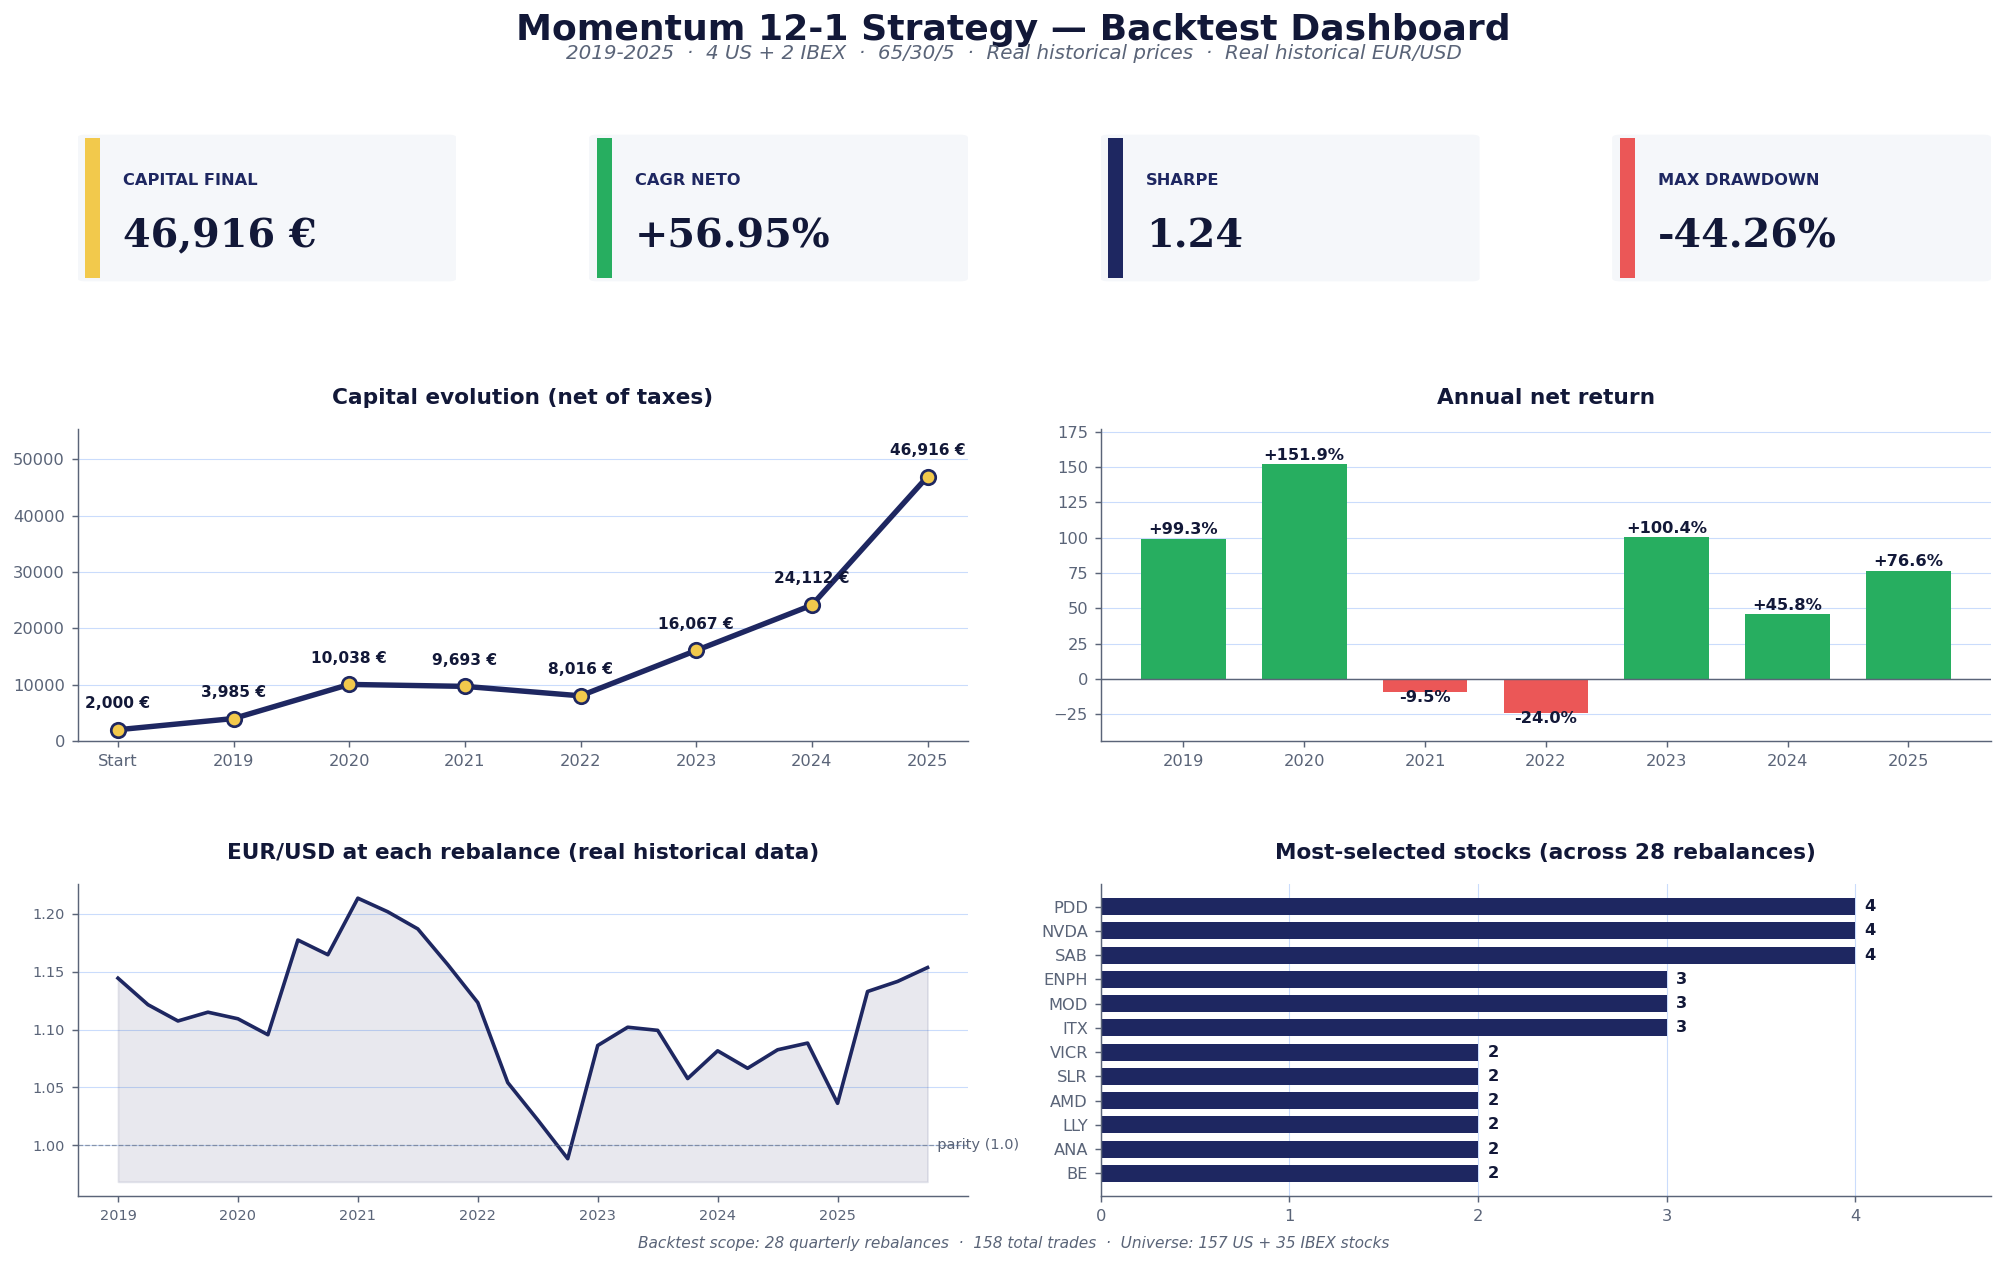
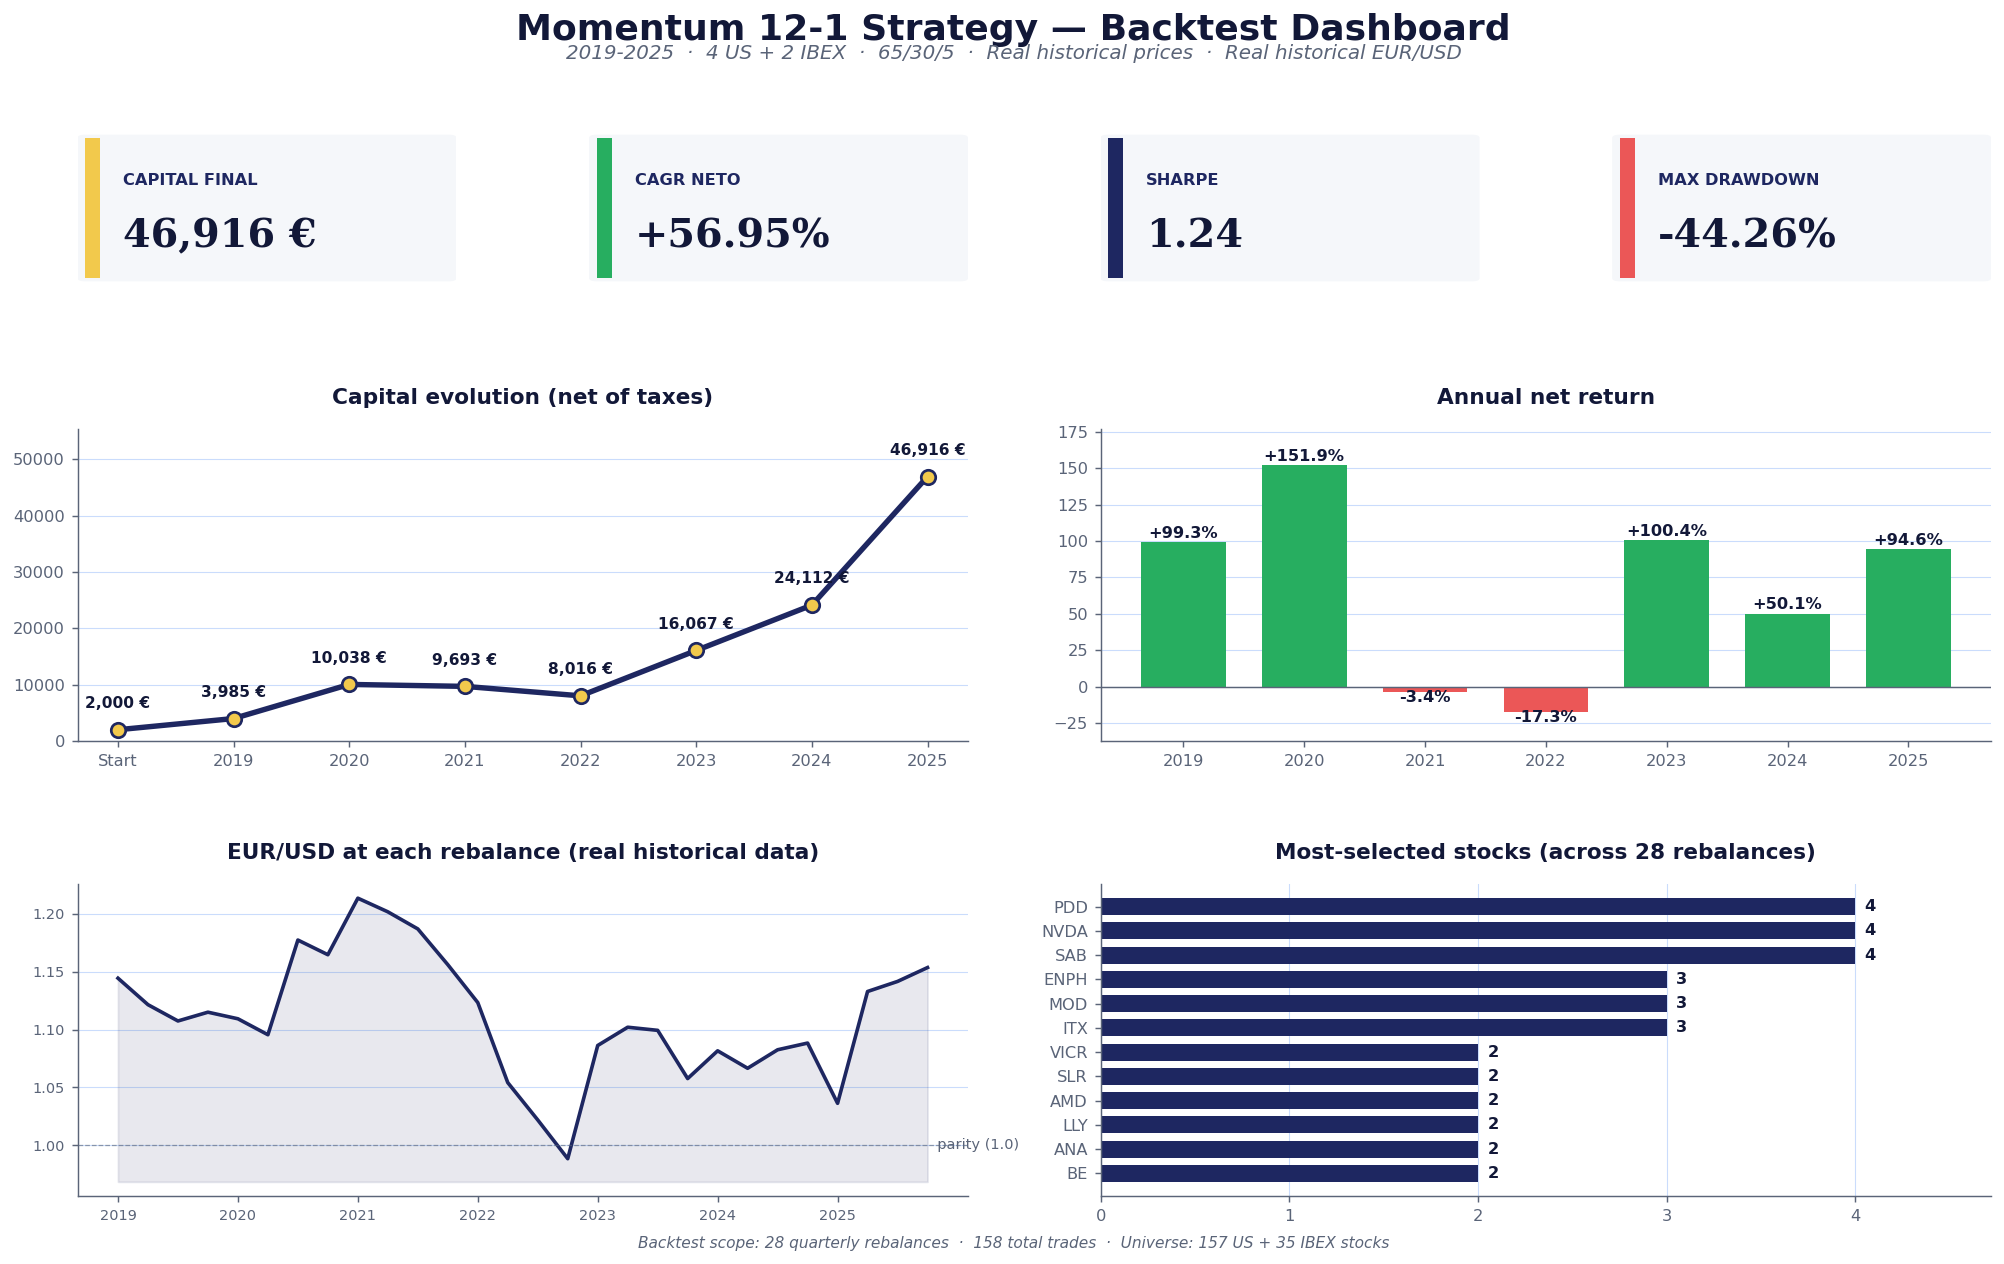
Bugfix: Yearly tax payments not deducted from start-of-next-year capital in backtest. #12

diff --git a/src/backtest.py b/src/backtest.py
@@ -477,7 +477,7 @@ def main():
             "tax": tax,
             "realized_gain": realized,
         })
-        df_log.loc[df_log.index >= f"{year+1}-01-01", "value_eur"] -= (
+        df_log.loc[df_log.index >= f"{year}-12-31", "value_eur"] -= (
             tax if year < final_year else 0
         )
 

diff --git a/backtests/backtest-results.md b/backtests/backtest-results.md
@@ -27,7 +27,7 @@ Reproducible run of `src/backtest.py` against **REAL historical price data** fro
 | Final capital | **46.916 €** |
 | Total return | [phone redacted]% |
 | **CAGR (net of taxes)** | **+56.95%** |
-| Annualized volatility | 44.41% |
+| Annualized volatility | 44.61% |
 | **Sharpe ratio** | **1.24** |
 | **Max drawdown** | **-44.26%** |
 | Total taxes | 10.390 € |
@@ -44,11 +44,11 @@ Reproducible run of `src/backtest.py` against **REAL historical price data** fro
 |------|--------------:|------------------:|-----------:|---------:|--------------:|
 | 2019 | 2.000 € | 3.985 € | **+99.27%** | 0 € | -38 € |
 | 2020 | 3.985 € | 10.038 € | **+151.88%** | 677 € | 3.564 € |
-| 2021 | 10.715 € | 9.693 € | **-9.54%** | 858 € | 4.514 € |
-| 2022 | 10.550 € | 8.016 € | **-24.02%** | 0 € | -784 € |
+| 2021 | 10.038 € | 9.693 € | **-3.44%** | 858 € | 4.514 € |
+| 2022 | 9.693 € | 8.016 € | **-17.30%** | 0 € | -784 € |
 | 2023 | 8.016 € | 16.067 € | **+100.44%** | 476 € | 2.503 € |
-| 2024 | 16.543 € | 24.112 € | **+45.75%** | 2.454 € | 12.259 € |
-| 2025 | 26.566 € | 46.916 € | **+76.60%** | 2.963 € | 14.679 € |
+| 2024 | 16.067 € | 24.112 € | **+50.07%** | 2.454 € | 12.259 € |
+| 2025 | 24.112 € | 46.916 € | **+94.57%** | 2.963 € | 14.679 € |
 
 ## Most-selected stocks
 
@@ -138,7 +138,7 @@ One row per executed buy/sell. Sells show realized return at exit; buys leave th
 | Q4 2020 | SELL | PDD | US | 16.1947 | 89.98 USD | 1.1647 | 1.251 € | +78.40% |
 | Q4 2020 | SELL | VICR | US | 14.2361 | 78.00 USD | 1.1647 | 953 € | -3.22% |
 
-### 2021 (10 buys, 10 sells, 35.339 € total volume — net annual return **-9.54%**)
+### 2021 (10 buys, 10 sells, 35.339 € total volume — net annual return **-3.44%**)
 
 | Quarter | Action | Ticker | Market | Shares | Price | EUR/USD | Amount (€) | Return % |
 |---------|--------|--------|--------|-------:|------:|--------:|-----------:|---------:|
@@ -163,7 +163,7 @@ One row per executed buy/sell. Sells show realized return at exit; buys leave th
 | Q4 2021 | SELL | MOD | US | 122.4480 | 11.00 USD | 1.1561 | 1.165 € | -32.49% |
 | Q4 2021 | SELL | MTS | IBEX | 60.0918 | 29.34 EUR |  | 1.763 € | +21.11% |
 
-### 2022 (16 buys, 15 sells, 46.517 € total volume — net annual return **-24.02%**)
+### 2022 (16 buys, 15 sells, 46.517 € total volume — net annual return **-17.30%**)
 
 | Quarter | Action | Ticker | Market | Shares | Price | EUR/USD | Amount (€) | Return % |
 |---------|--------|--------|--------|-------:|------:|--------:|-----------:|---------:|
@@ -236,7 +236,7 @@ One row per executed buy/sell. Sells show realized return at exit; buys leave th
 | Q4 2023 | SELL | MOD | US | 73.7240 | 39.50 USD | 1.0576 | 2.754 € | +69.81% |
 | Q4 2023 | SELL | SAB | IBEX | 1416.7496 | 1.17 EUR |  | 1.659 € | +23.94% |
 
-### 2024 (11 buys, 11 sells, 81.349 € total volume — net annual return **+45.75%**)
+### 2024 (11 buys, 11 sells, 81.349 € total volume — net annual return **+50.07%**)
 
 | Quarter | Action | Ticker | Market | Shares | Price | EUR/USD | Amount (€) | Return % |
 |---------|--------|--------|--------|-------:|------:|--------:|-----------:|---------:|
@@ -263,7 +263,7 @@ One row per executed buy/sell. Sells show realized return at exit; buys leave th
 | Q4 2024 | SELL | ROVI | IBEX | 45.7885 | 78.10 EUR |  | 3.576 € | +21.94% |
 | Q4 2024 | SELL | VRT | US | 61.0049 | 109.29 USD | 1.0883 | 6.126 € | +92.82% |
 
-### 2025 (8 buys, 8 sells, 100.371 € total volume — net annual return **+76.60%**)
+### 2025 (8 buys, 8 sells, 100.371 € total volume — net annual return **+94.57%**)
 
 | Quarter | Action | Ticker | Market | Shares | Price | EUR/USD | Amount (€) | Return % |
 |---------|--------|--------|--------|-------:|------:|--------:|-----------:|---------:|